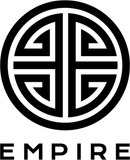
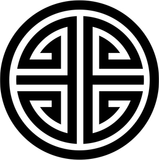
EMPIRE is the circle alone
Julian: just show the circle. The word under the emblem came out a few
pixels tall in a 34px row. The source is cropped above the gap between
the emblem and the word (rows 2 to 283 of 350 are the circle), and the
mark regenerated. The other marks' scales are unchanged.

diff --git a/lib/clients-data.ts b/lib/clients-data.ts
@@ -38,9 +38,9 @@ export const CLIENT_MARKS: Record<string, ClientMarkData> = {
   "empire": {
     kind: "mask",
     src: "/clients/empire.webp",
-    width: 130,
+    width: 159,
     height: 160,
-    scale: 1.45,
+    scale: 1.36,
   },
   "goodcult": {
     kind: "mask",
